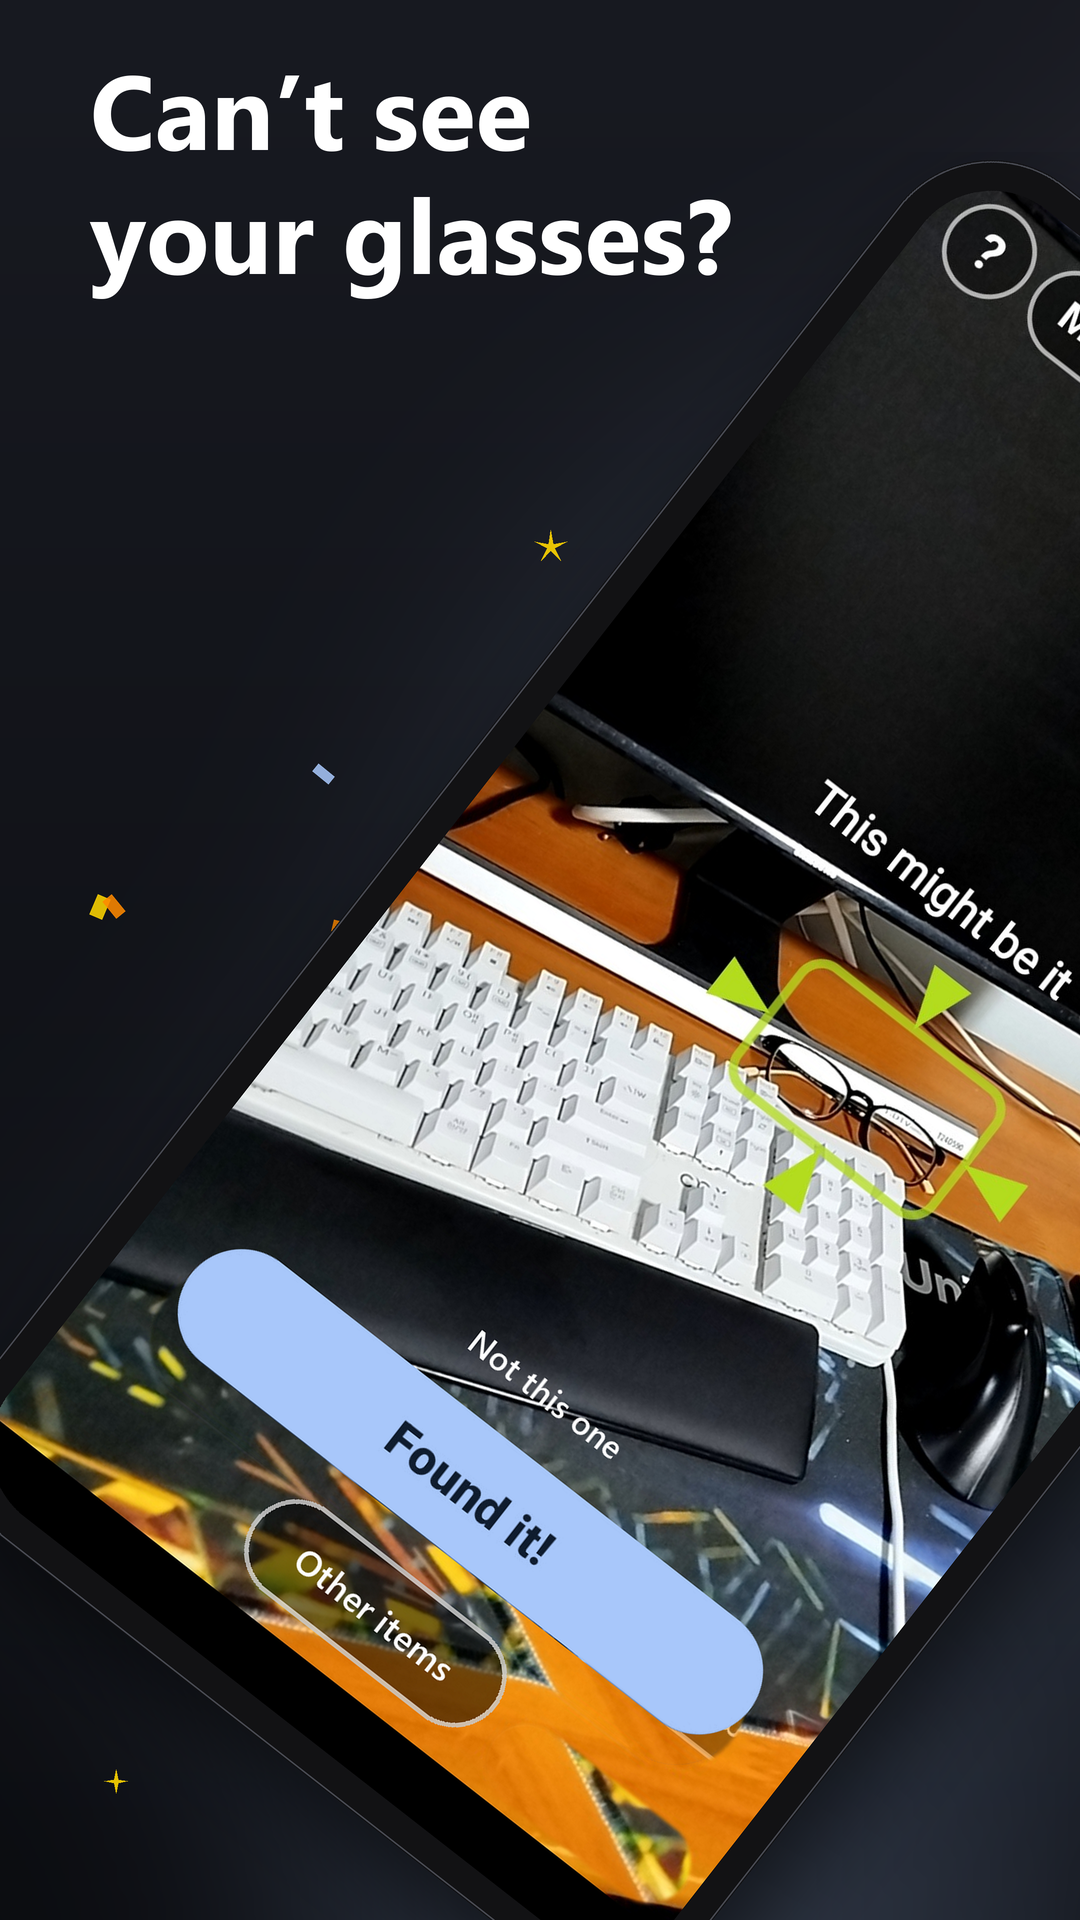
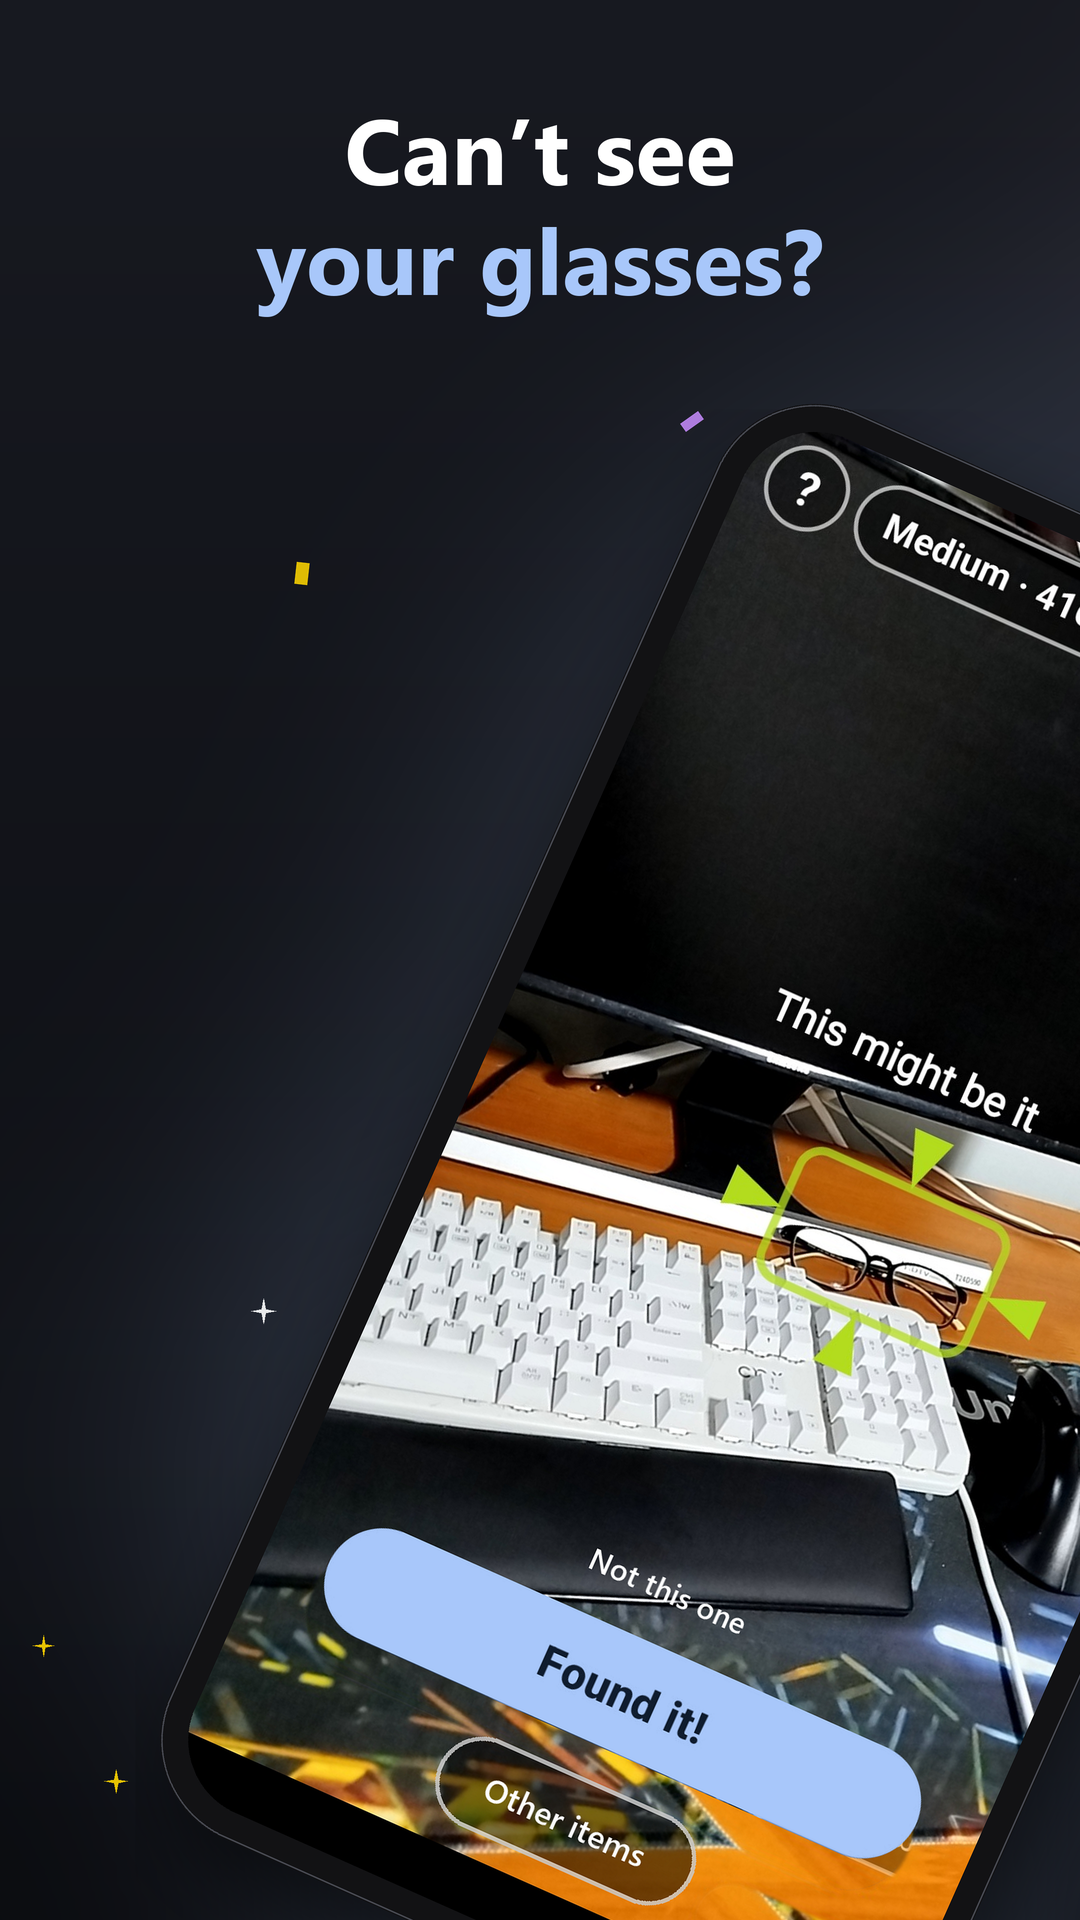
Store screenshots: panorama with one phone straddling the seam

diff --git a/poc/scripts/render_store_split.py b/poc/scripts/render_store_split.py
@@ -1,8 +1,9 @@
-"""스토어 스크린샷 두 장 (1080x1920) — 폰 한 대를 크게 비스듬히 눕혀 두 장에 걸치게 한다.
+"""스토어 파노라마 스크린샷 두 장 (1080x1920).
 
-2160x1920 한 판에 그린 뒤 반으로 자른다. 스토어에서 두 장을 나란히 넘겨 보면
-폰 한 대가 이어져 보인다. 폰은 왼쪽 아래에서 오른쪽 위로 눕힌다.
-문구는 비는 자리에 둔다: 1장은 위, 2장은 아래.
+폰 한 대가 두 장의 경계선을 걸치고 서서 각 장에 거의 절반씩 보인다. 1장에서 반쪽을
+보고, 넘기면 나머지가 보인다. 2160x1920 한 판에 그린 뒤 반으로 자른다.
+문구는 장마다 위에 따로 둔다 (한 장만 봐도 말이 되게).
+경계선이 안경 박스를 자르지 않게, 폰을 1장 쪽으로 조금 치우친다.
 
     uv run python scripts/render_store_split.py
 """
@@ -18,12 +19,12 @@ from render_store_marketing import (
 )
 
 SCREEN = "screenshot-2-search.png"
-PHONE_H = 1720          # 폰 긴 변 (px, 1080 폭 기준)
-ANGLE = -38.0           # 시계 방향으로 눕힌다 (위가 오른쪽)
-CENTER = (800, 1070)    # 안경 박스가 1장 안에 온전히 들어오게 이음새 왼쪽에
+PHONE_H = 1560          # 폰 긴 변 (px, 1080 폭 기준)
+ANGLE = -24.0           # 시계 방향으로 기울인다 (위가 오른쪽)
+CENTER = (820, 1250)    # 경계선(1080) 조금 왼쪽 — 안경 박스가 1장 안에 들어온다
 
-TOP_LINES = ("Can’t see", "your glasses?")        # 1장 위 왼쪽
-BOTTOM_LINES = ("Your phone", "can.")             # 2장 아래 오른쪽 (둘째 줄 강조색)
+LINES = [("Can’t see", "your glasses?"),         # 1장 (둘째 줄 강조색)
+         ("Your phone", "can.")]                  # 2장
 
 random.seed(5)
 
@@ -54,9 +55,7 @@ def main() -> None:
     placed = 0
     while placed < 44:
         x, y = random.uniform(40, 2120), random.uniform(60, 1880)
-        if x < 1000 and y < 520:            # 1장 문구 자리
-            continue
-        if x > 1160 and y > 1400:           # 2장 문구 자리
+        if y < 400:                          # 문구 자리
             continue
         placed += 1
         x, y = x * SS, y * SS
@@ -76,14 +75,11 @@ def main() -> None:
     place(canvas, phone(screen(SCREEN), PHONE_H * SS), CENTER[0] * SS, CENTER[1] * SS, ANGLE)
 
     d = ImageDraw.Draw(canvas)
-    f = ImageFont.truetype(FONT_B, 104 * SS)
-    lh = 124 * SS
-    x0, y0 = 90 * SS, 150 * SS
-    d.text((x0, y0), TOP_LINES[0], font=f, fill=WHITE, anchor="ls")
-    d.text((x0, y0 + lh), TOP_LINES[1], font=f, fill=WHITE, anchor="ls")
-    x1, y1 = (2 * W - 90) * SS, (H - 150) * SS
-    d.text((x1, y1 - lh), BOTTOM_LINES[0], font=f, fill=WHITE, anchor="rs")
-    d.text((x1, y1), BOTTOM_LINES[1], font=f, fill=ACCENT, anchor="rs")
+    f = ImageFont.truetype(FONT_B, 92 * SS)
+    for i, (l1, l2) in enumerate(LINES):
+        cx = (i * W + W // 2) * SS
+        d.text((cx, 185 * SS), l1, font=f, fill=WHITE, anchor="ms")
+        d.text((cx, 295 * SS), l2, font=f, fill=ACCENT, anchor="ms")
 
     full = canvas.convert("RGB").resize((W * 2, H), Image.LANCZOS)
     full.save(REL / "store-split-spread.png")
